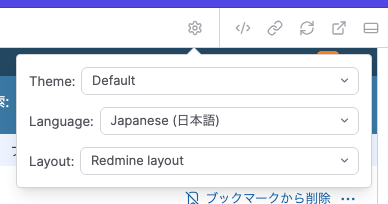
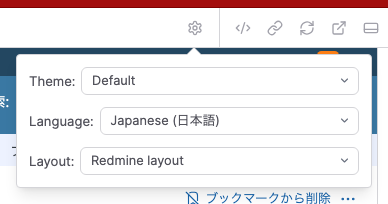
Give Lookbook's interface the Redmine Kit header and mark

Changed region(s): [[0.0, 0.0, 1.0, 0.0588]]

diff --git a/lib/redmine_lookbook.rb b/lib/redmine_lookbook.rb
@@ -55,6 +55,17 @@ module RedmineLookbook
     Rails.application.config.view_component.previews.controller = controller
 
     Lookbook.config.project_name = "Redmine Lookbook"
+    # Lookbook's own interface in the Redmine Kit style: neutral colors, the
+    # red header of the Redmine Kit sites (docs-skeleton) and the white Redmine
+    # Kit mark (redmine-kit/brand) before the project name.
+    Lookbook.config.ui_theme = "zinc"
+    Lookbook.config.ui_theme_overrides do |theme|
+      theme.header_bg = "#a30d0d"
+      theme.header_border = "#7f0000"
+      theme.header_text = "#ffffff"
+      theme.favicon = "#a30d0d"
+    end
+    Lookbook.config.project_logo = File.read(File.join(root, "lookbook", "redmine-kit-mark.svg"))
     Lookbook.config.preview_paths |= paths
     Lookbook.config.preview_controller = controller
     # Render each preview and its layout in one pass, so that content_for

diff --git a/docs/ja/how-it-works.md b/docs/ja/how-it-works.md
@@ -10,6 +10,7 @@ Redmine Lookbook は、3 か所で Lookbook と Redmine をつなぎます。プ
 | --- | --- |
 | 有効かどうか | Lookbook の gem がインストールされ、`REDMINE_LOOKBOOK` が `1`(開発モードの既定)のとき、このプラグインは有効です |
 | 準備 | Redmine は、プラグインの `init.rb` を、Rails のオートローダーの準備のあとの `to_prepare` のコールバックで実行し、開発モードではコードを読み込み直すたびに再び実行します。Lookbook はプレビューがオートロードされることを前提にしているので、このプラグインは、プレビューとプレビューのコントローラーを自身で読み込みます |
+| Lookbook の見た目 | Lookbook 自体の画面は、Lookbook の中立の `zinc` のテーマに、Redmine Kit のサイトと同じ赤いヘッダーと、プロジェクト名の前の Redmine Kit のマークを付けています(準備の中の `ui_theme`、`ui_theme_overrides`、`project_logo`。マークは `lookbook/redmine-kit-mark.svg`)。プレビューの中の Redmine の画面には影響しません |
 | 無効のときは何もしない | プレビューのコントローラーと画面のコンポーネントは Lookbook と ViewComponent を参照するので、Redmine がオートロードするディレクトリの外の `lookbook/` に置いています。プラグインが無効のときは何も Lookbook を参照しないので、本番の Redmine は Lookbook なしで eager load できます |
 
 <a id="components"></a>

diff --git a/docs/how-it-works.md b/docs/how-it-works.md
@@ -8,6 +8,7 @@ Redmine Lookbook connects Lookbook to Redmine in three places: the controller th
 | --- | --- |
 | Enabled check | The plugin is enabled when the Lookbook gem is installed and `REDMINE_LOOKBOOK` is `1` (the default in development) |
 | Setup | Redmine runs the plugin's `init.rb` in a `to_prepare` callback, after Rails' autoloader is set up, and again on every code reload in development. The plugin then loads its previews and the preview controller itself, because Lookbook expects them to be autoloaded |
+| Lookbook's appearance | Lookbook's own interface uses Lookbook's neutral `zinc` theme with the red header of the Redmine Kit sites and the Redmine Kit mark before the project name (`ui_theme`, `ui_theme_overrides` and `project_logo` in the setup; the mark is `lookbook/redmine-kit-mark.svg`). Redmine's pages in the previews are not affected |
 | Off means off | The preview controller and the page component refer to Lookbook and ViewComponent, so they are kept in `lookbook/`, outside the directories that Redmine autoloads. With the plugin disabled, nothing refers to Lookbook, and Redmine eager loads without it in production |
 
 ## Components
